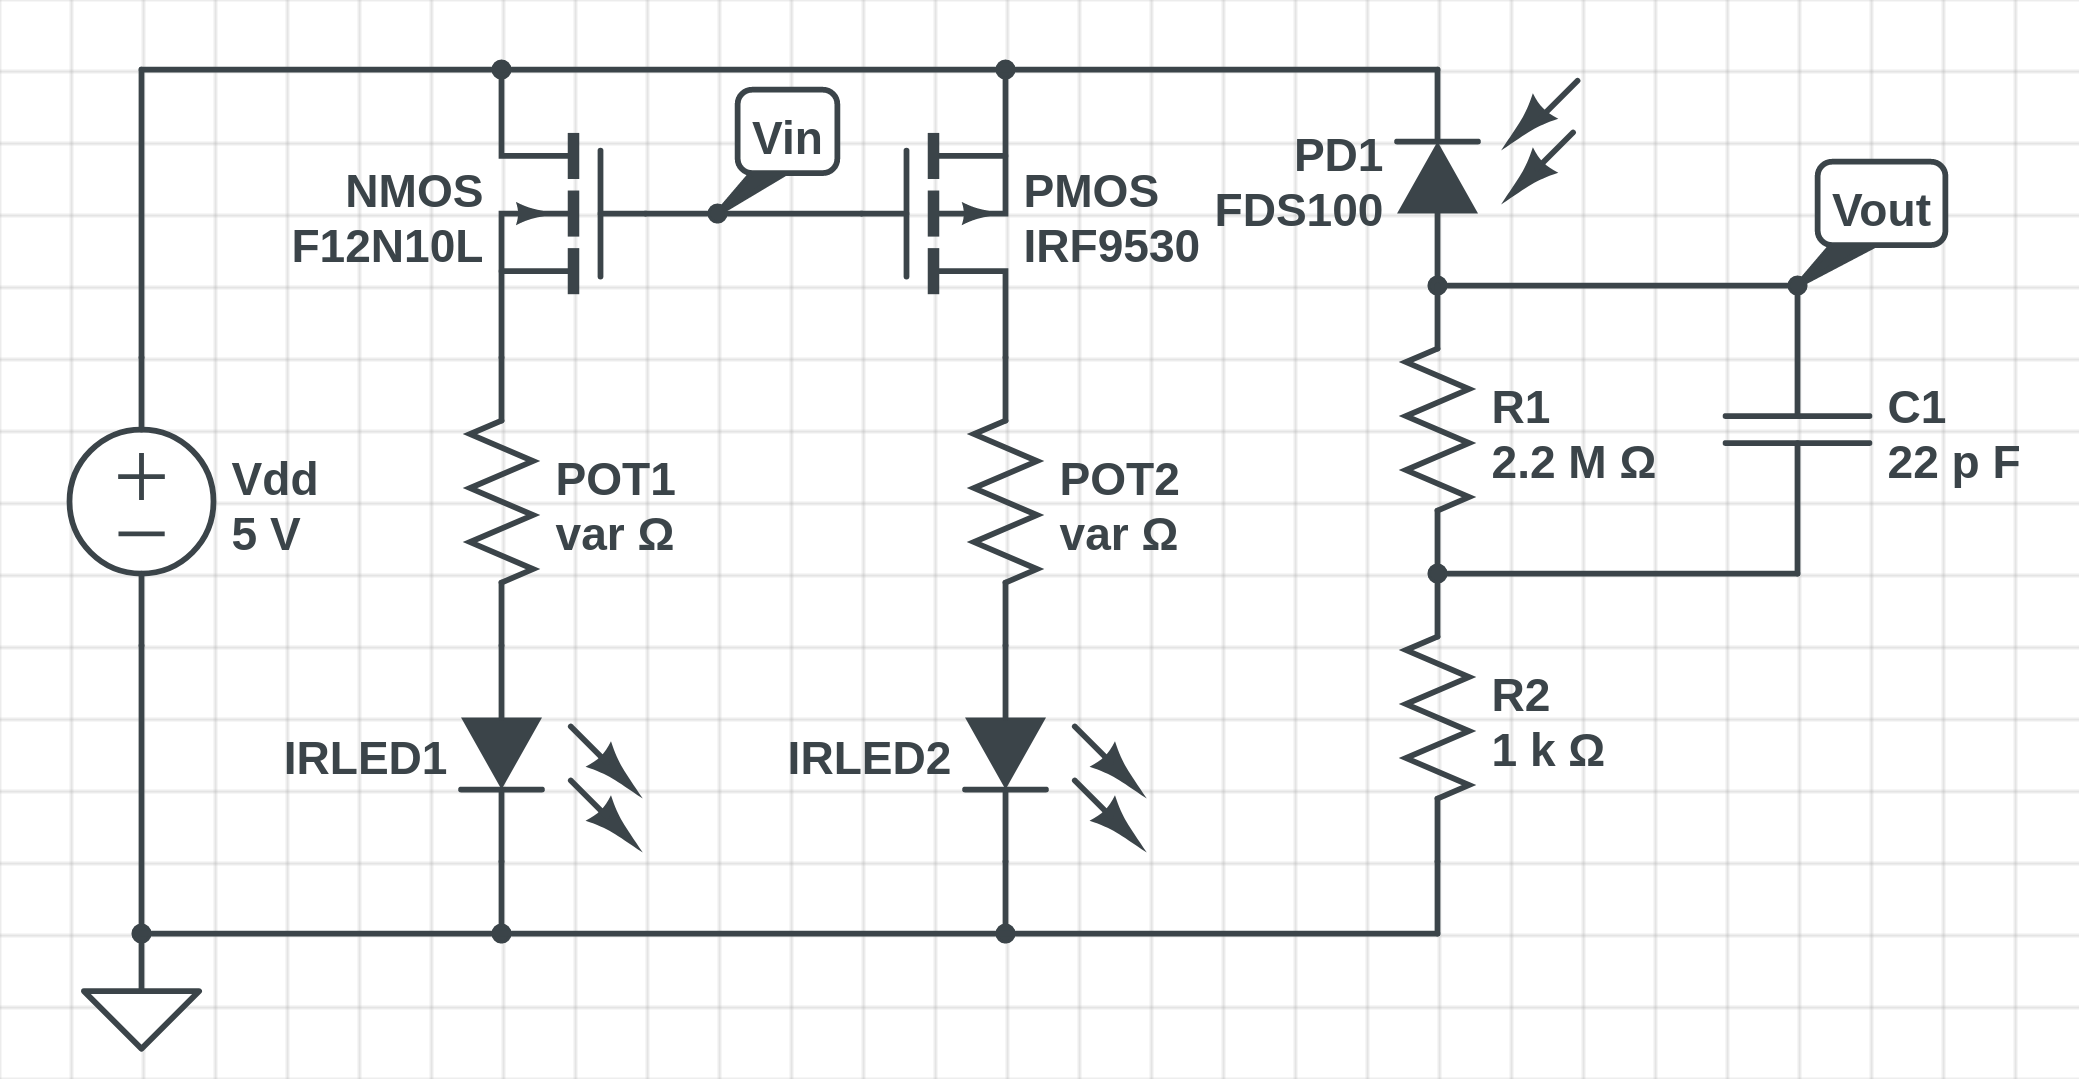
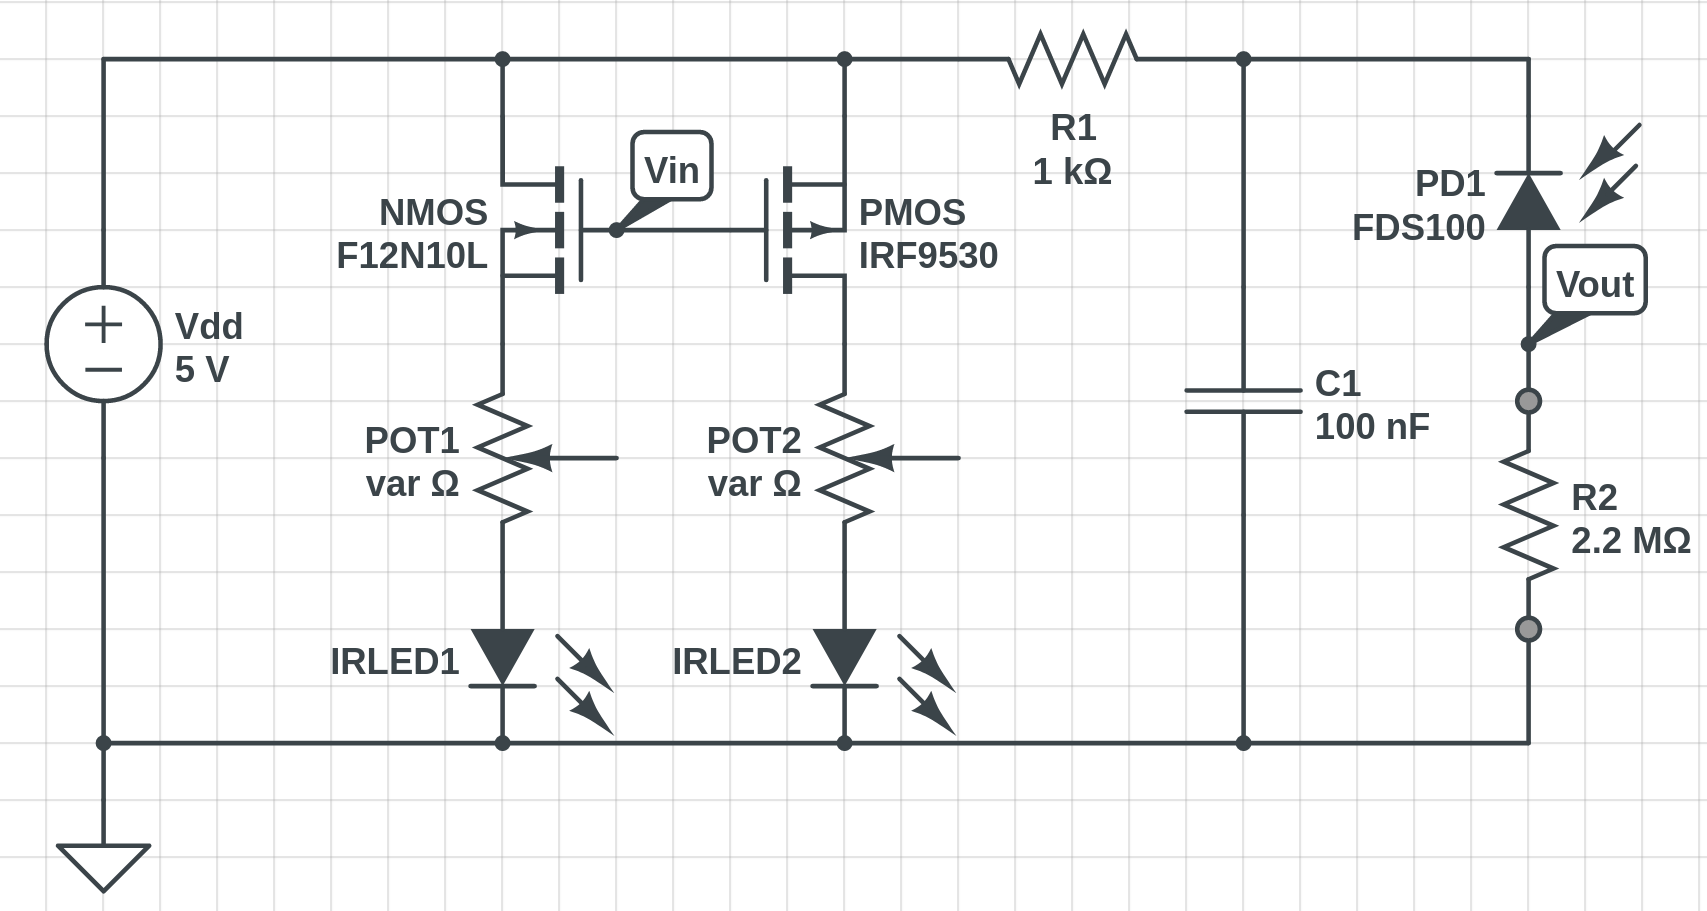
docs(README): further fix circuit diagram
This latest circuit diagram takes into account Thorlab's recommended
photoconductive-mode circuit for the FDS100, as provided in the FDS100
datasheet. This is a more correct circuit.

While the previous circuit functioned for this purpose, this one makes
more sense, and should also work fine. However, note that I have no
physically tested this one yet.

Fixes: 1bcf4d3d101a3e35998228223ff702195a708467

diff --git a/README.md b/README.md
@@ -171,7 +171,7 @@ prototyping shield.
 * [2x] Trim potentiometers
 * [1x] 2.2 MΩ resistor
 * [1x] 1 kΩ resistor
-* [1x] 22 pF capacitor
+* [1x] 100 nF capacitor
 * [2x] Gikfun 5mm 940nm IR LEDs
 * [1x] FDS100 Photodiode
 * [1x] Mount + standoffs
@@ -179,7 +179,10 @@ prototyping shield.
 * [1x] Adafruit Proto Shield for Arduino
 * [1x] Black pupil laser printed on white paper
 
-The circuit that is soldered to the Arduino Proto Shield is shown below.
+The circuit that is soldered to the Arduino Proto Shield is shown below. The RC
+circuit preceding the photodiode serves as a low-pass filter. The load resister
+is just a very large value in order to read a large voltage value from the small
+amount of current generated by the photodiode.
 
 ![schematic][logo]
 
